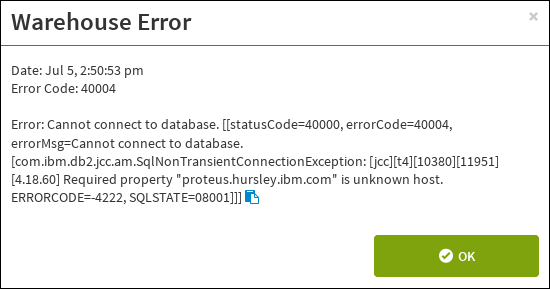
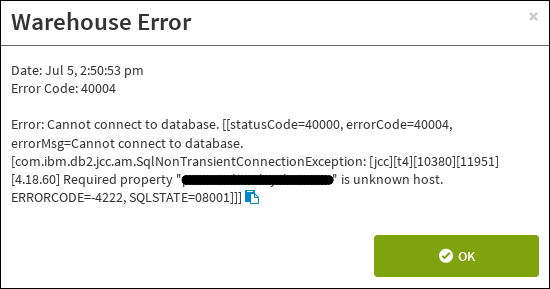
Finish first draft of first FAQ, for FB52308.

Changed region(s): [[0.3091, 0.5917, 0.6182, 0.654]]

diff --git a/source/includes/guides/_warehousing.md b/source/includes/guides/_warehousing.md
@@ -387,7 +387,7 @@ If you need further help,
 and can't find solutions in Stack Overflow,
 please contact [Cloudant support](mailto:support@cloudant.com).
 
-### Exceptions visible in the dashboard
+#### Exceptions visible in the dashboard
 
 Sometimes,
 the warehouse encounters an error condition.
@@ -406,5 +406,7 @@ a little more information is supplied:<br/>
 ![Screen shot showing hover summary of error status.](images/errorIndicator2.png)
 
 When you click on the indicator,
-a window appears giving you more details about exactly what the problem is:<br/>
+a window appears giving you more details about exactly what the problem is.
+In this example,
+the host details entered for the DB2 connection were not valid:<br/>
 ![Screen shot showing hover summary of error status.](images/errorIndicator3.png)
